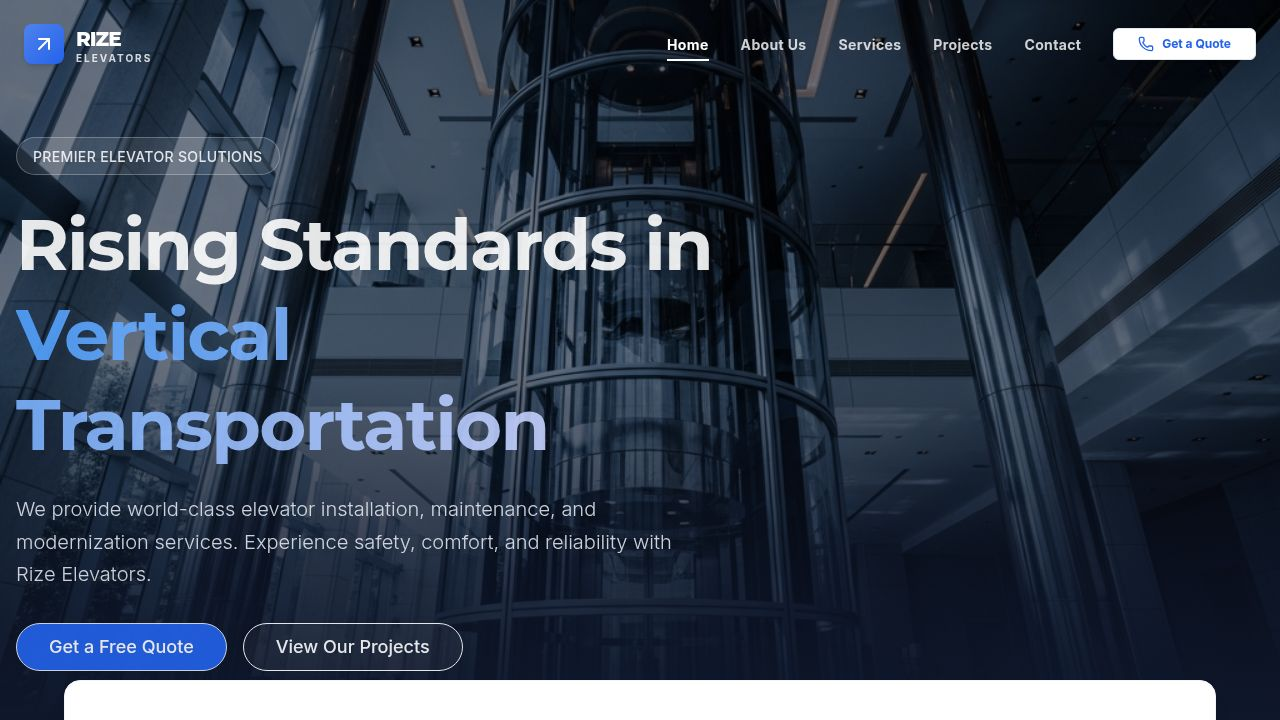
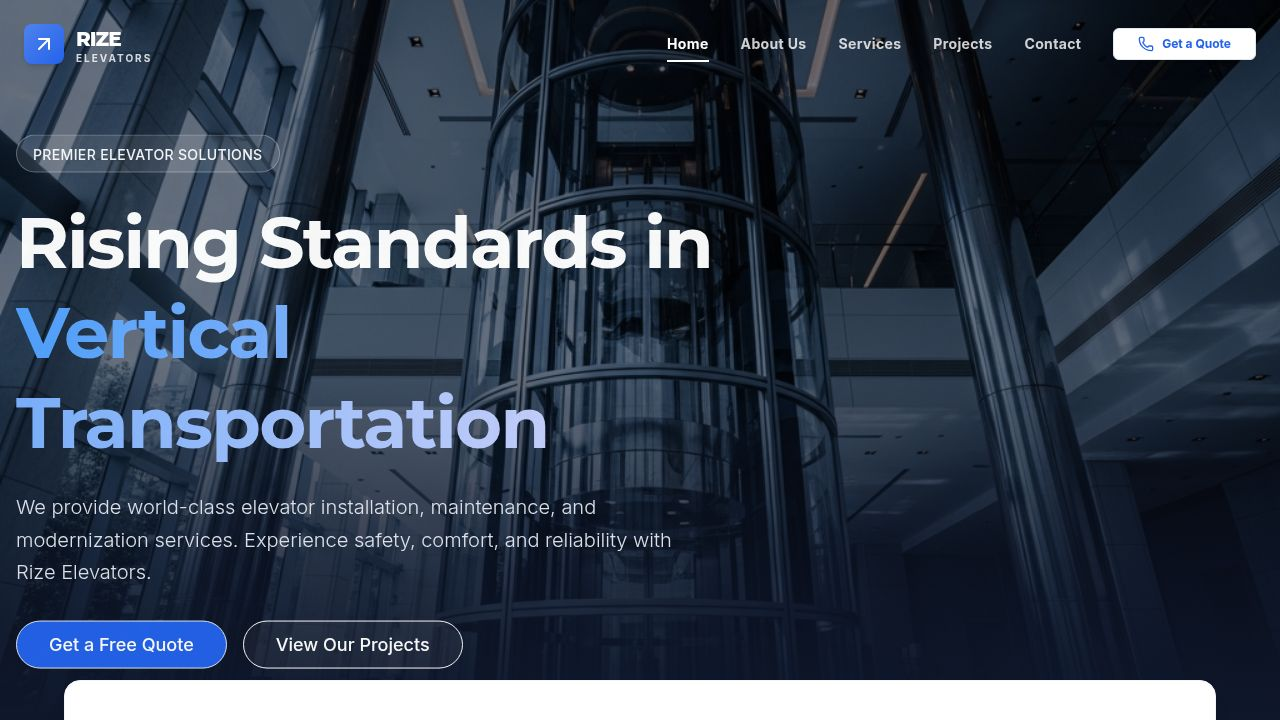
Fix navigation links to correctly direct users to different pages
Updates the Navbar component to correctly use `setLocation` for navigation, ensuring all links and buttons function as expected and update the active state indicator.

Replit-Commit-Author: Agent
Replit-Commit-Session-Id: 2f1c44f1-e9a8-43ce-8d8c-076c8980f8e8
Replit-Commit-Checkpoint-Type: full_checkpoint
Replit-Commit-Event-Id: ba0a4d20-349d-4542-9b8c-cf431520fa8e
Replit-Commit-Screenshot-Url: https://storage.googleapis.com/screenshot-production-us-central1/2624a003-262b-40ca-89a1-f92847ecea1b/2f1c44f1-e9a8-43ce-8d8c-076c8980f8e8/DMYlcyV
Replit-Helium-Checkpoint-Created: true

diff --git a/client/src/components/layout/navbar.tsx b/client/src/components/layout/navbar.tsx
@@ -7,7 +7,7 @@ import { cn } from "@/lib/utils";
 export default function Navbar() {
   const [isOpen, setIsOpen] = useState(false);
   const [scrolled, setScrolled] = useState(false);
-  const [location] = useLocation();
+  const [location, setLocation] = useLocation();
 
   useEffect(() => {
     const handleScroll = () => {
@@ -24,6 +24,11 @@ export default function Navbar() {
     { name: "Projects", href: "/projects" },
     { name: "Contact", href: "/contact" },
   ];
+
+  const handleNavClick = (href: string) => {
+    setLocation(href);
+    setIsOpen(false);
+  };
 
   return (
     <nav
@@ -61,32 +66,31 @@ export default function Navbar() {
         {/* Desktop Nav */}
         <div className="hidden md:flex items-center gap-8">
           {navLinks.map((link) => (
-            <Link key={link.name} href={link.href}>
-              <span
-                className={cn(
-                  "text-sm font-bold tracking-wide transition-all cursor-pointer relative py-2",
-                  scrolled 
-                    ? (location === link.href ? "text-primary after:bg-primary" : "text-foreground/70 hover:text-primary")
-                    : (location === link.href ? "text-white after:bg-white" : "text-white/80 hover:text-white"),
-                  location === link.href && "after:absolute after:bottom-0 after:left-0 after:w-full after:h-0.5"
-                )}
-              >
-                {link.name}
-              </span>
-            </Link>
-          ))}
-          <Link href="/contact">
-            <Button 
-              size="sm" 
-              variant={scrolled ? "default" : "secondary"}
+            <div 
+              key={link.name} 
+              onClick={() => handleNavClick(link.href)}
               className={cn(
-                "gap-2 shadow-lg hover:-translate-y-0.5 transition-all cursor-pointer font-bold px-6",
-                !scrolled && "bg-white text-primary hover:bg-white/90"
+                "text-sm font-bold tracking-wide transition-all cursor-pointer relative py-2",
+                scrolled 
+                  ? (location === link.href ? "text-primary after:bg-primary" : "text-foreground/70 hover:text-primary")
+                  : (location === link.href ? "text-white after:bg-white" : "text-white/80 hover:text-white"),
+                location === link.href && "after:absolute after:bottom-0 after:left-0 after:w-full after:h-0.5"
               )}
             >
-              <Phone className="h-4 w-4" /> Get a Quote
-            </Button>
-          </Link>
+              {link.name}
+            </div>
+          ))}
+          <Button 
+            size="sm" 
+            variant={scrolled ? "default" : "secondary"}
+            onClick={() => handleNavClick("/contact")}
+            className={cn(
+              "gap-2 shadow-lg hover:-translate-y-0.5 transition-all cursor-pointer font-bold px-6",
+              !scrolled && "bg-white text-primary hover:bg-white/90"
+            )}
+          >
+            <Phone className="h-4 w-4" /> Get a Quote
+          </Button>
         </div>
 
         {/* Mobile Menu Toggle */}
@@ -106,23 +110,23 @@ export default function Navbar() {
         <div className="md:hidden absolute top-full left-0 w-full bg-white dark:bg-slate-900 border-b border-border shadow-2xl animate-in slide-in-from-top-5">
           <div className="flex flex-col p-6 gap-4">
             {navLinks.map((link) => (
-              <Link key={link.name} href={link.href}>
-                <span
-                  className={cn(
-                    "text-lg font-bold p-3 rounded-xl transition-all cursor-pointer block",
-                    location === link.href ? "bg-primary/10 text-primary" : "hover:bg-muted"
-                  )}
-                  onClick={() => setIsOpen(false)}
-                >
-                  {link.name}
-                </span>
-              </Link>
+              <div
+                key={link.name}
+                className={cn(
+                  "text-lg font-bold p-3 rounded-xl transition-all cursor-pointer block",
+                  location === link.href ? "bg-primary/10 text-primary" : "hover:bg-muted"
+                )}
+                onClick={() => handleNavClick(link.href)}
+              >
+                {link.name}
+              </div>
             ))}
-            <Link href="/contact">
-              <Button className="w-full mt-4 h-14 text-lg font-bold shadow-xl" onClick={() => setIsOpen(false)}>
-                Get a Quote
-              </Button>
-            </Link>
+            <Button 
+              className="w-full mt-4 h-14 text-lg font-bold shadow-xl cursor-pointer" 
+              onClick={() => handleNavClick("/contact")}
+            >
+              Get a Quote
+            </Button>
           </div>
         </div>
       )}
